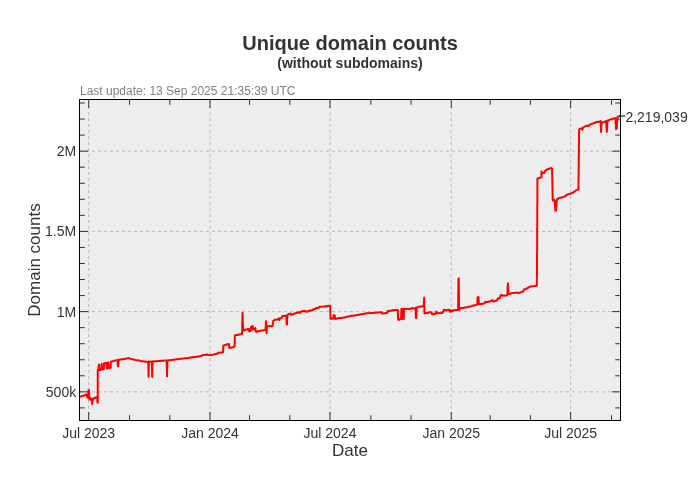
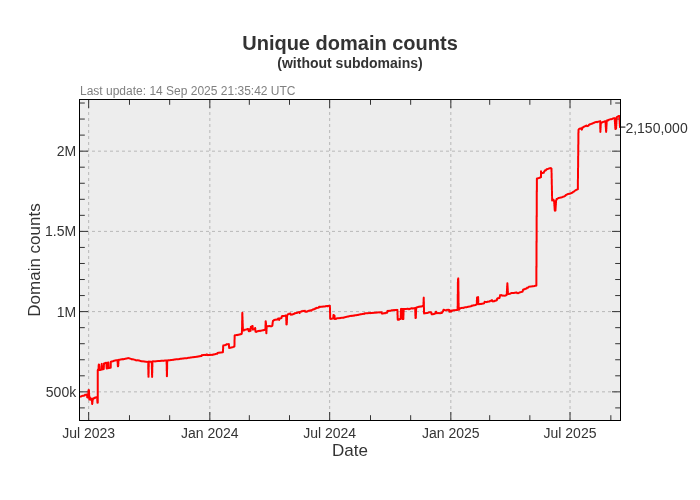
Update pages

diff --git a/README.md b/README.md
@@ -3,22 +3,22 @@ A blocklist file for blocking ads, trackers and malware domains.
 
[1 lines of base64/hex data omitted]
 
-- Unique domains: 2,904,696
-- Without subdomains: 2,219,039
-- Last update: 13 Sep 2025 21:35:39 UTC
-- Version: 2025.09.13.01
+- Unique domains: 2,826,307
+- Without subdomains: 2,150,000
+- Last update: 14 Sep 2025 21:35:42 UTC
+- Version: 2025.09.14.01
 
 
 ### Downloads:
 
 | Format             | Domain count      | Download Link |
 |:------------------ | -----------------:|:-------------:|
-| *Adblock Plus*     | 2,219,039 | [Download](https://dl.cenk.app/bad-hosts/bad-hosts-abp) |
-| *Wildcard domains* | 2,219,039 | [Download](https://dl.cenk.app/bad-hosts/bad-hosts-wildcard) |
-| *dnsmasq*          | 2,219,039 | [Download](https://dl.cenk.app/bad-hosts/bad-hosts-dnsmasq) |
-| *hosts*            | 2,904,696 | [Download](https://dl.cenk.app/bad-hosts/hosts) |
-| *hosts (ipv6)*     | 2,904,696 | [Download](https://dl.cenk.app/bad-hosts/hosts-ipv6) |
-| *Plain domains*    | 2,904,696 | [Download](https://dl.cenk.app/bad-hosts/bad-hosts-domains) |
+| *Adblock Plus*     | 2,150,000 | [Download](https://dl.cenk.app/bad-hosts/bad-hosts-abp) |
+| *Wildcard domains* | 2,150,000 | [Download](https://dl.cenk.app/bad-hosts/bad-hosts-wildcard) |
+| *dnsmasq*          | 2,150,000 | [Download](https://dl.cenk.app/bad-hosts/bad-hosts-dnsmasq) |
+| *hosts*            | 2,826,307 | [Download](https://dl.cenk.app/bad-hosts/hosts) |
+| *hosts (ipv6)*     | 2,826,307 | [Download](https://dl.cenk.app/bad-hosts/hosts-ipv6) |
+| *Plain domains*    | 2,826,307 | [Download](https://dl.cenk.app/bad-hosts/bad-hosts-domains) |
 
 ### Domain count history
 #### With subdomains
